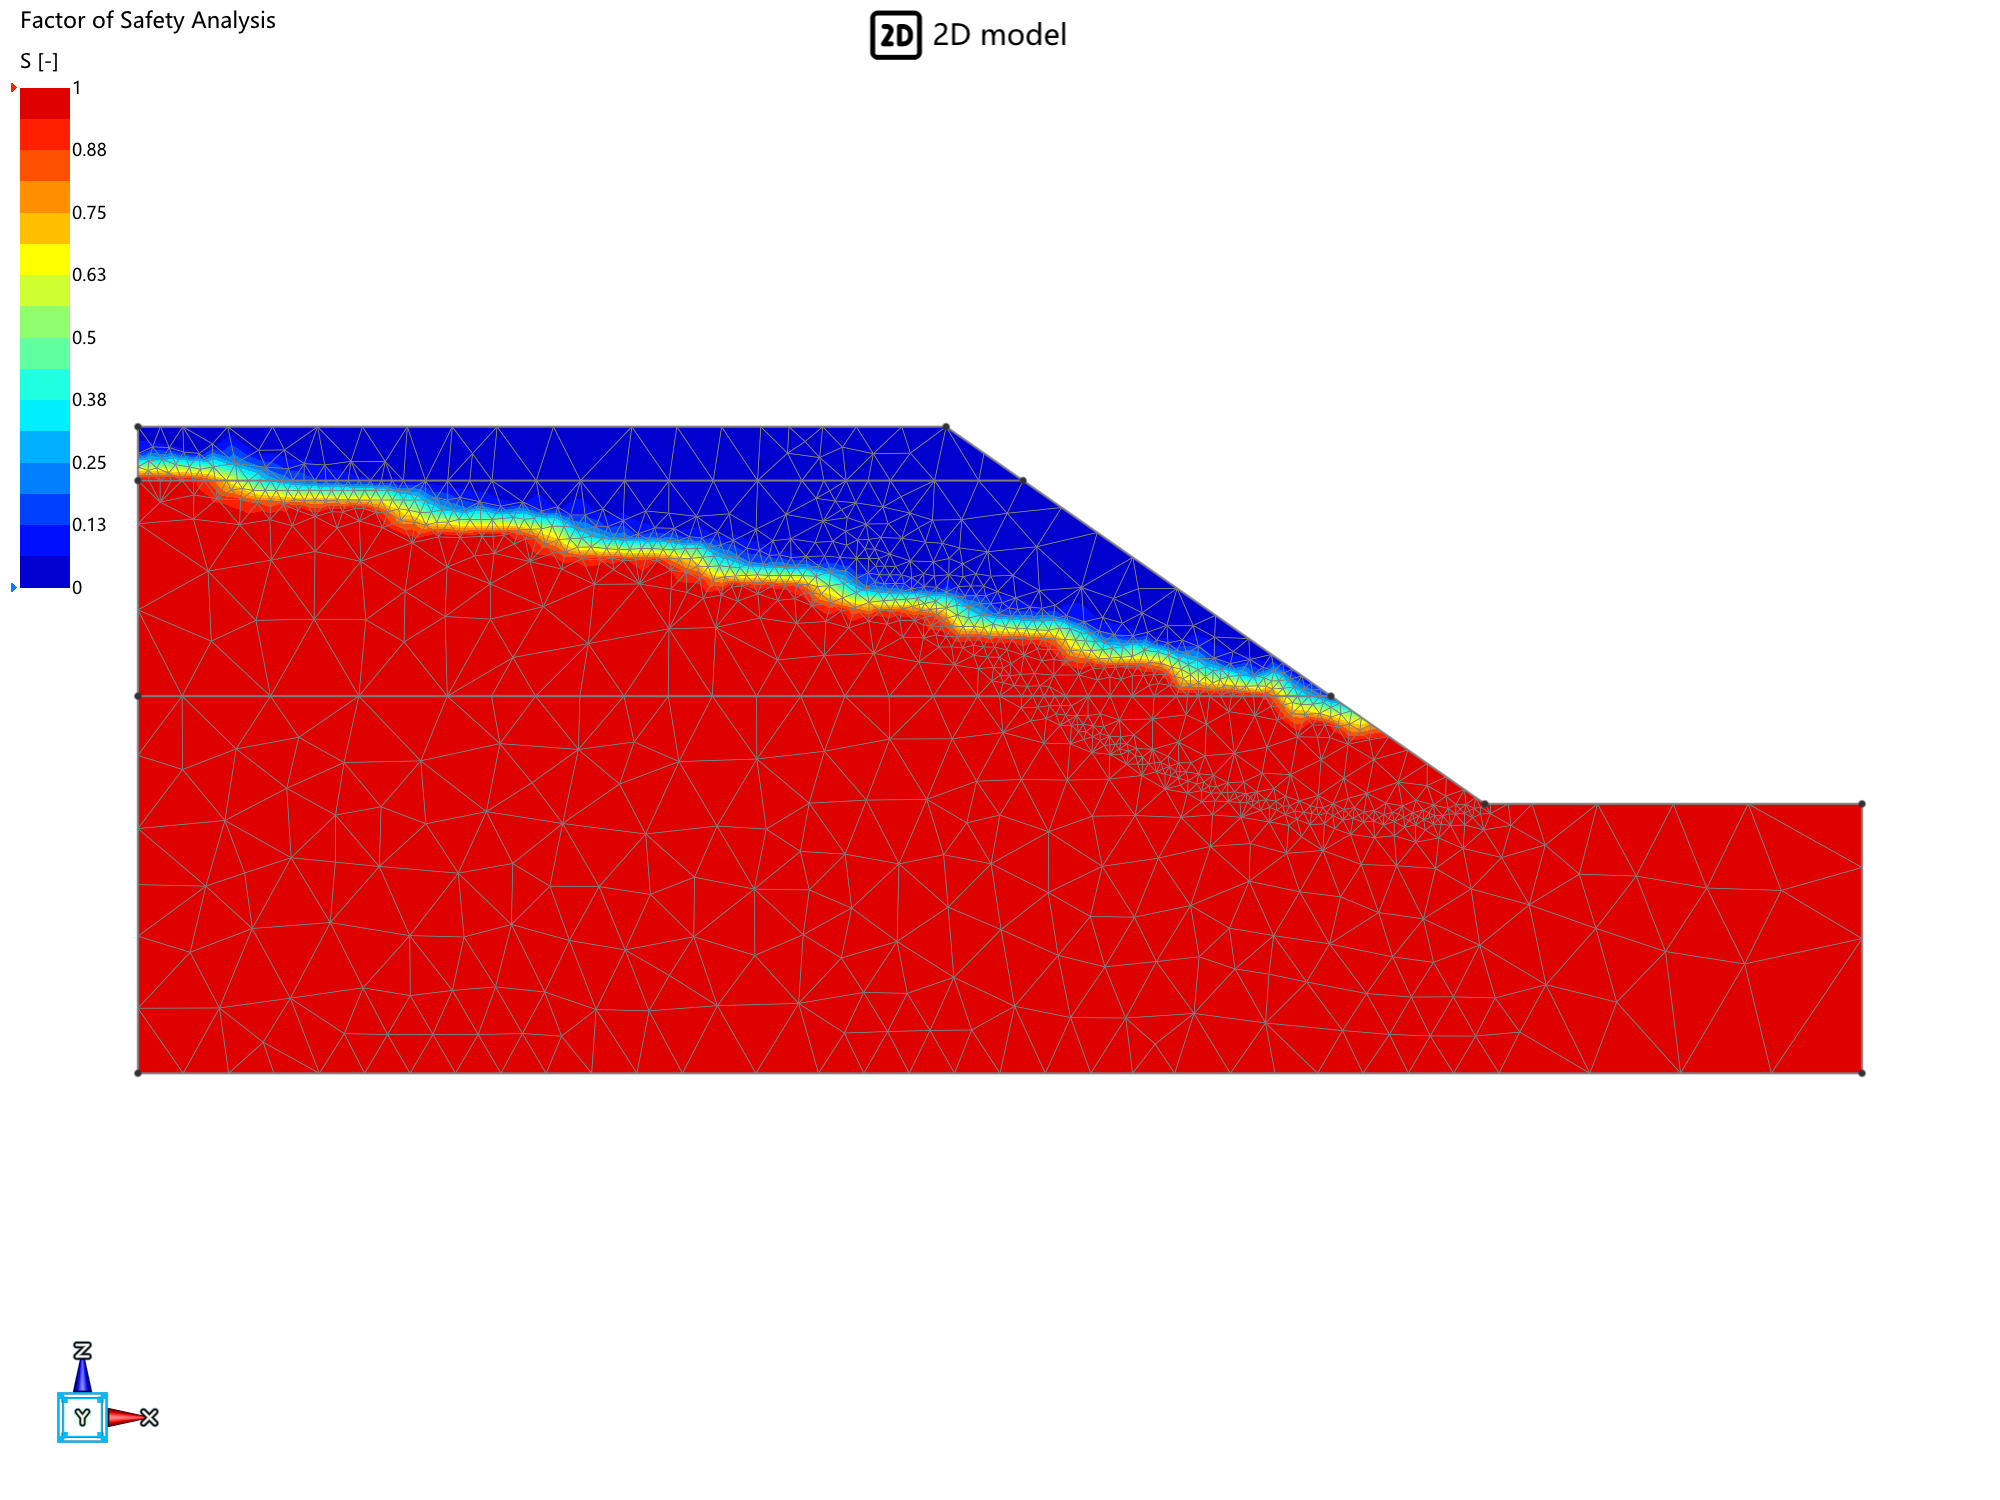
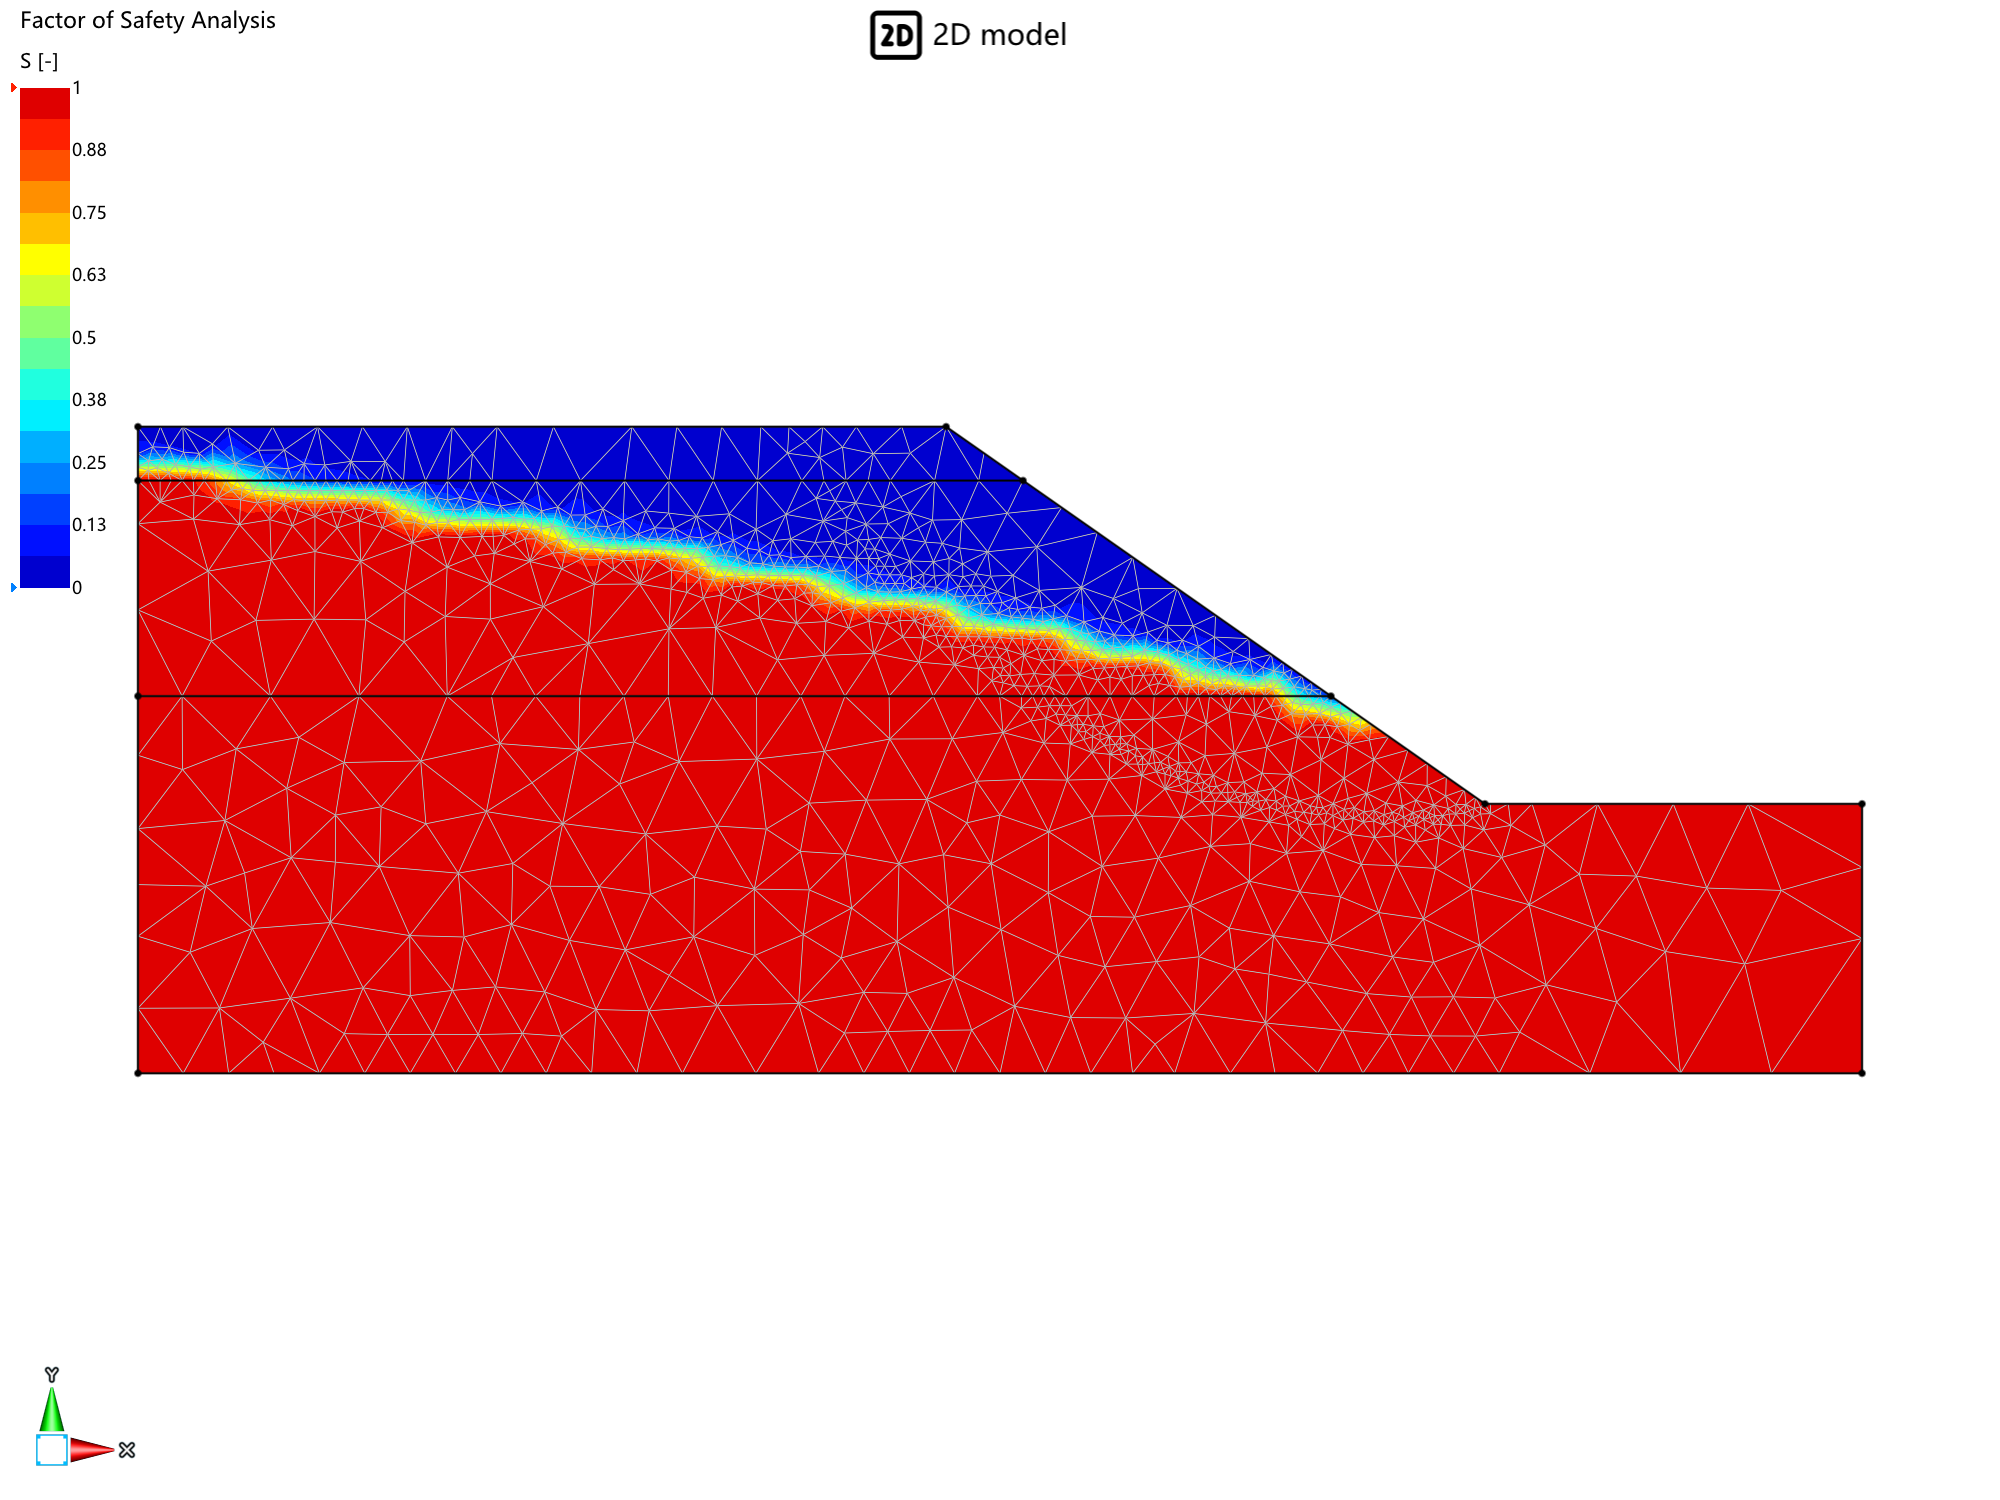
take_picture() update, along with docstring generation

diff --git a/optum-gx/static/code-files/Example8.py b/optum-gx/static/code-files/Example8.py
@@ -3,7 +3,7 @@ from OptumGX import *
 import matplotlib.pyplot as plt
 gx = GX()
 # Project
-project_name = "Example 8 Slope seepage"
+project_name = "Example Stability of slope subjected to unconfined seepage"
 prj = gx.create_project(project_name)
 prj.get_current_model().delete()
 # Model (2D)
@@ -112,7 +112,7 @@ model2d.take_picture(
             'width': 2000,
             'height': 1500,
             'mesh_overlay': True,
-            'medium':"print",
+            'medium':"screenshot",
             'grid':False,
             'colorbar_min':0,
             'colorbar_max':1,
@@ -128,11 +128,14 @@ model2d.take_picture(
             'width': 2000,
             'height': 1500,
             'mesh_overlay': True,
-            'medium':"print",
+            'medium':"screenshot",
             'grid':False,
             'colorbar_min':0,
+            'average_vertex_values': False,
             'colorbar_max':smax*0.9,
             'colorbar_text_scale':1.5,
+            'deformation_percent': 100,
+            'deformation_scale': 1,
             
             }
 )

diff --git a/optum-gx/python/functions/model-and-stage/operations/take_picture.md b/optum-gx/python/functions/model-and-stage/operations/take_picture.md
@@ -10,12 +10,13 @@ Save a plot of a result field of this model or stage to an image file.
 <dt>file_path : str</dt>
 <dd>Path of the image file to write. The format follows the extension (PNG when there is none); missing folders are created, and an existing file is overwritten without warning.</dd>
 <dt>options : dict, optional</dt>
-<dd>Capture settings. Unset options fall back to the report display settings. Supported keys: - width, height : int, image size in pixels (default 2000 x 1500) - grid, mesh_overlay, model_outline, average_vertex_values : bool - colorbar_min, colorbar_max : float, pin the colorbar range - colorbar_height, colorbar_width, colorbar_value_count : int - colorbar_text_scale : float - medium : "print" (default, report style) or "screen"</dd>
+<dd>Capture settings. Unset options fall back to the report display settings. Supported keys: - width, height : int, image size in pixels (default 2000 x 1500) - grid, mesh_overlay, model_outline, average_vertex_values : bool - colorbar_min, colorbar_max : float, pin the colorbar range; a side left out keeps the current range of the plot - colorbar_height, colorbar_width, colorbar_value_count : int - colorbar_text_scale : float - medium : display profile, "report" (default), "screen" or "screenshot" (see gx.settings.report/screen/screenshot) Result toolbar settings (unset = as currently shown in the Results tab): - step : int, step number as the toolbar shows it ("Step 1" is 1; results that start at "Step 0" count from 0); negative numbers count from the end, -1 being the last step - displacement : "total" or "incremental" - deformation_scale : float >= 0, the deformation scale factor - deformation_percent : float 0-100, the deformation animation slider; 0 plots the undeformed shape, 100 the full scale</dd>
 </dl>
 
 ## Notes
 
 The stage must have up-to-date results (run the analysis first).
+The Results tab is left as it was after the picture is taken.
 
 ## Examples
 
@@ -23,4 +24,7 @@ The stage must have up-to-date results (run the analysis first).
 stage1.take_picture('solid/stresses/total/sigma_x', 'sigma_x.png')
 model2d.take_picture('solid/displacements/|u|', 'u.png',
                      options={'width': 1200, 'height': 900, 'mesh_overlay': True})
+stage1.take_picture('solid/displacements/|u|', 'u_step1.png',
+                    options={'step': 1, 'deformation_scale': 50,
+                             'deformation_percent': 100})
 ```

diff --git a/optum-gx/python/functions/model/features/set_plate.md b/optum-gx/python/functions/model/features/set_plate.md
@@ -9,12 +9,24 @@ Set shape material as plate.
 <dd>Shapes to assign plate to.</dd>
 <dt>material : Material</dt>
 <dd>Plate material (RigidPlate, FlatPlateSteel, etc.).</dd>
-<dt>strength_reduction_factor : float</dt>
-<dd>Strength reduction factor.</dd>
+<dt>roughness : float</dt>
+<dd>Interface roughness (strength reduction factor) applied to both sides.</dd>
 <dt>tension_cutoff : bool</dt>
 <dd>Enable tension cutoff.</dd>
 <dt>compression_cutoff : bool</dt>
 <dd>Enable compression cutoff.</dd>
+<dt>interface_material : Material | str</dt>
+<dd>Interface material applied to both sides ('adjacent_solid', a material or None).</dd>
+<dt>roughness_minus, roughness_plus : float</dt>
+<dd>Per-side roughness overrides.</dd>
+<dt>tension_cut_off_minus, tension_cut_off_plus : bool</dt>
+<dd>Per-side tension cutoff overrides.</dd>
+<dt>compression_cut_off_minus, compression_cut_off_plus : bool</dt>
+<dd>Per-side compression cutoff overrides.</dd>
+<dt>interface_material_minus, interface_material_plus : Material | str</dt>
+<dd>Per-side interface material overrides.</dd>
+<dt>strength_reduction_factor, strength_reduction_factor_minus, strength_reduction_factor_plus : float</dt>
+<dd>Deprecated aliases for roughness, roughness_minus and roughness_plus.</dd>
 </dl>
 
 ## Examples

diff --git a/optum-gx/python/functions/project/materials/MultiMohrCoulomb.md b/optum-gx/python/functions/project/materials/MultiMohrCoulomb.md
@@ -19,8 +19,18 @@ Define a Multi Mohr-Coulomb material.
 <dd>Young's Modulus, in MPa.</dd>
 <dt>nu : float</dt>
 <dd>Poisson's ratio.</dd>
+<dt>fit : str</dt>
+<dd>Strength envelope fit. fit = 'user' (c1..c5 and phi1..phi5), 'ngi_sand' (derived from I_D) or 'gsk_rockfill' (derived from phi25, phi_infty, sigma_c)</dd>
+<dt>I_D : float</dt>
+<dd>Relative density for the NGI-Sand fit, 0 (loose) to 1 (dense).</dd>
+<dt>phi25 : float</dt>
+<dd>GSK Rockfill fit: friction angle in degrees at 25 kPa confining stress.</dd>
+<dt>phi_infty : float</dt>
+<dd>GSK Rockfill fit: asymptotic friction angle in degrees at high confinement.</dd>
+<dt>sigma_c : float</dt>
+<dd>GSK Rockfill fit: stress controlling the curvature of the envelope, in kPa.</dd>
 <dt>no_surfaces : int</dt>
-<dd>Number of surfaces up to 5.</dd>
+<dd>Number of surfaces up to 5 (fit = 'user').</dd>
 <dt>c1 : float</dt>
 <dd>Cohesion for the first surface.</dd>
 <dt>phi1 : float</dt>
@@ -90,6 +100,7 @@ MMCMaterial = prj.MultiMohrCoulomb(name='MMCMaterial',
                      pcav = 100,
                      E= 30,
                      nu= 0.25,
+                     fit='user',
                      no_surfaces=2,
                      c1= 5,
                      phi1= 35,

diff --git a/optum-gx/python/functions/objects/materials/MultiMohrCoulomb.md b/optum-gx/python/functions/objects/materials/MultiMohrCoulomb.md
@@ -49,6 +49,16 @@ material.no_surfaces
 <dd>Cohesion for surface 4.</dd>
 <dt>c5 : float | ParameterMap | Profile | Gradient</dt>
 <dd>Cohesion for surface 5.</dd>
+<dt>fit : int</dt>
+<dd>Strength envelope fit: 'user' (c1..c5 / phi1..phi5), 'ngi_sand' (from I_D) or 'gsk_rockfill' (from phi25, phi_infty, sigma_c).</dd>
+<dt>I_D : float | ParameterMap | Profile | Gradient</dt>
+<dd>Relative density for the NGI-Sand fit, 0 (loose) to 1 (dense).</dd>
+<dt>phi25 : float | ParameterMap | Profile | Gradient</dt>
+<dd>GSK Rockfill fit: friction angle at 25 kPa confining stress.</dd>
+<dt>phi_infty : float | ParameterMap | Profile | Gradient</dt>
+<dd>GSK Rockfill fit: asymptotic friction angle at high confinement.</dd>
+<dt>sigma_c : float | ParameterMap | Profile | Gradient</dt>
+<dd>GSK Rockfill fit: stress controlling the curvature of the envelope.</dd>
 <dt>tension_cutoff : bool</dt>
 <dd>Tension cutoff enabled.</dd>
 <dt>sigma_t : float | ParameterMap | Profile | Gradient</dt>

diff --git a/optum-gx/python/functions/objects/features/Plates.md b/optum-gx/python/functions/objects/features/Plates.md
@@ -20,9 +20,9 @@ feature.strong_axis = [0, 1, 0]
 <dt>strong_axis : List[float]</dt>
 <dd>Strong axis (Y / J) of the beam coordinate system as [x, y, z]. Setting this enables ``use_beam_coordinate_system``.</dd>
 <dt>interface_minus : _InterfaceSide</dt>
-<dd>Interface minus side properties (material, strength_reduction_factor, tension_cutoff, compression_cutoff, fc, normal).</dd>
+<dd>Interface minus side properties (material, roughness, tension_cutoff, compression_cutoff, fc, normal).</dd>
 <dt>interface_plus : _InterfaceSide</dt>
-<dd>Interface plus side properties (material, strength_reduction_factor, tension_cutoff, compression_cutoff, fc, normal).</dd>
+<dd>Interface plus side properties (material, roughness, tension_cutoff, compression_cutoff, fc, normal).</dd>
 <dt>coordinate_system : str</dt>
 <dd>Beam internal coordinate system: ``'default'`` or ``'custom'`` (alias for use_beam_coordinate_system).</dd>
 </dl>

diff --git a/optum-gx/python/functions/objects/features/Geogrids.md b/optum-gx/python/functions/objects/features/Geogrids.md
@@ -13,11 +13,14 @@ feature.material_id
 
 <dl>
 <dt>material_id : str</dt>
+<dt>roughness : float</dt>
+<dd>Interface roughness. Reads the minus side; setting it applies to both sides.</dd>
 <dt>strength_reduction_factor : float</dt>
+<dd>Deprecated alias for ``roughness``.</dd>
 <dt>tension_cutoff : bool</dt>
 <dt>compression_cutoff : bool</dt>
 <dt>interface_minus : _InterfaceSide</dt>
-<dd>Interface minus side properties (material, strength_reduction_factor, tension_cutoff, compression_cutoff, fc, normal).</dd>
+<dd>Interface minus side properties (material, roughness, tension_cutoff, compression_cutoff, fc, normal).</dd>
 <dt>interface_plus : _InterfaceSide</dt>
-<dd>Interface plus side properties (material, strength_reduction_factor, tension_cutoff, compression_cutoff, fc, normal).</dd>
+<dd>Interface plus side properties (material, roughness, tension_cutoff, compression_cutoff, fc, normal).</dd>
 </dl>

diff --git a/optum-gx/python/functions/model/hide_features.md b/optum-gx/python/functions/model/hide_features.md
@@ -1,0 +1,36 @@
+# hide_features
+
+Hide the visual of features.
+
+Only the drawing is affected: the shapes the features sit on stay
+visible and the features keep their effect in the analysis. Visibility
+is model-wide, so it applies to every stage of the model.
+
+## Parameters
+
+<dl>
+<dt>features : Feature | list[Feature] | None</dt>
+<dd>Features to hide.</dd>
+</dl>
+
+## Raises
+
+<dl>
+<dt>TypeError</dt>
+<dd>If features is not a Feature or a list/tuple of Features (e.g. a Shape or ShapeList). None is accepted and does nothing.</dd>
+</dl>
+
+## See also
+
+- [unhide_features](/python/functions/model/unhide_features)
+- [unhide_all_features](/python/functions/model/unhide_all_features)
+- [Feature.hidden](/python/functions/model/Feature.hidden)
+
+## Examples
+
+```python
+load = model.get_surface_load(model.select([2, 4], types='edge'))
+model.hide_features(load)
+load.hidden
+True
+```

diff --git a/optum-gx/python/functions/project/design_approach.md b/optum-gx/python/functions/project/design_approach.md
@@ -1,0 +1,26 @@
+# design_approach
+
+The project's design approaches (partial factors), keyed by name.
+
+## Returns
+
+<dl>
+<dt>DesignApproaches</dt>
+<dd>Mapping of name -> DesignApproach; each factor is a read/write property that talks to the running application.</dd>
+</dl>
+
+## Examples
+
+```python
+project.design_approach['ULS'].gamma_unfavorable_dead_load = 1.1
+project.design_approach['SLS'].gamma_favorable_user2_load
+1.0
+project.design_approach['ULS'].update(gamma_c=1.25, gamma_phi=1.25)
+project.design_approach['User 1'].gamma_cu = 1.4    # also 'user1'
+```
+
+## See also
+
+- [DesignApproaches](/python/functions/project/DesignApproaches)
+- [DesignApproach](/python/functions/project/DesignApproach)
+- [set_design_approach_parameters](/python/functions/project/set_design_approach_parameters)

diff --git a/optum-gx/python/functions/project/materials/HardeningSoil.md b/optum-gx/python/functions/project/materials/HardeningSoil.md
@@ -43,6 +43,8 @@ Define a Hardeing Soil material.
 <dd>Model fitting parameter. Generally: 0.5 < m < 1</dd>
 <dt>Ru : float</dt>
 <dd>Failure ratio.</dd>
+<dt>small_strain_stiffness : boolean</dt>
+<dd>Enable small strain stiffness (E0_ref and gamma_07 apply only when enabled). small_strain_stiffness = 'yes' or 'no'</dd>
 <dt>E0_ref : float</dt>
 <dd>Small strain reference modulus, in MPa.</dd>
 <dt>gamma_07 : float</dt>
@@ -110,6 +112,7 @@ HardeningSoilMaterial = prj.HardeningSoil(name='HardeningSoilMaterial',
                      pref=100,
                      m = 0.5,
                      Ru=0.9,
+                     small_strain_stiffness='yes',
                      E0_ref= 250,
                      gamma_07= 0.0001,
                      Eoed_ref=30,

diff --git a/optum-gx/python/functions/objects/features/ResultPoints.md b/optum-gx/python/functions/objects/features/ResultPoints.md
@@ -2,9 +2,10 @@
 
 Result point used for tracking output at a
 specific location during analysis. Set ``is_control`` to mark the point
-as the control point in a load-deformation analysis. ``name`` is the
-label shown in the property panel; ``index`` is assigned by the model
-and cannot be changed from a script.
+as the control point in a load-deformation analysis. ``name`` and
+``index`` come from Feature: the name is unique within a model (a
+clashing name gets a numeric suffix) and the index is assigned by the
+model and cannot be changed from a script.
 
 ## Examples
 
@@ -19,6 +20,4 @@ print(feature.index)
 
 <dl>
 <dt>is_control : bool</dt>
-<dt>name : str</dt>
-<dt>index : int</dt>
 </dl>

diff --git a/optum-gx/python/functions/project/set_design_approach_parameters.md b/optum-gx/python/functions/project/set_design_approach_parameters.md
@@ -1,0 +1,18 @@
+# set_design_approach_parameters
+
+Set the factors of a design approach from a positional list (legacy
+form). Prefer ``project.design_approach[name].<factor> = value``.
+
+## Parameters
+
+<dl>
+<dt>name : str</dt>
+<dd>Design approach name ("SLS", "ULS", ...; case-insensitive).</dd>
+<dt>parameters : list of float</dt>
+<dd>Values in the order of ``DesignApproach.FIELDS``; a short list leaves the trailing factors unchanged.</dd>
+</dl>
+
+## See also
+
+- [design_approach](/python/functions/project/design_approach)
+- [DesignApproach.update](/python/functions/project/DesignApproach.update)
